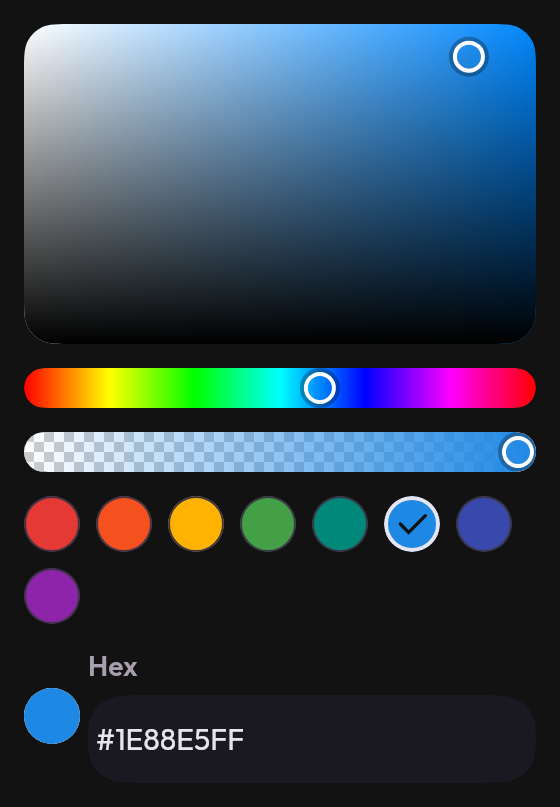
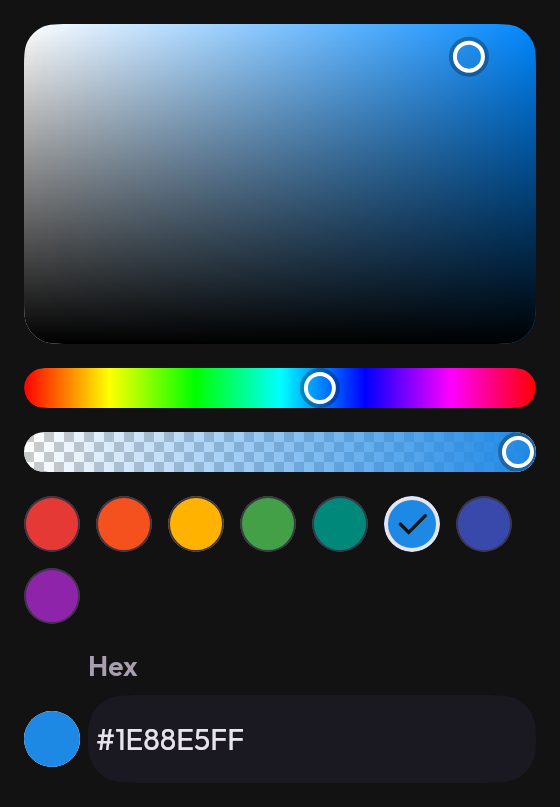
Three of the colour picker's four faults
**Palette mode drew no palette.** The mode guarded the spectrum square, the hue
track *and* the opacity track together with nothing in the `else`, so `Palette`
was the swatch row and the value field — and with `swatches = emptyList()` it
was a lone hex box with no way to choose a colour at all. The mode now chooses
the **area and nothing else**: a grid of forty cells stepping saturation across
and value down, with the hue track and the opacity track where they were. A
palette built from one hue is a column of greys, which is why dropping the track
with the square was never right.

Drawn on one canvas rather than composed as forty nodes, and a cell is picked by
rounding the position rather than by hit-testing, so a drag reports every cell it
crosses and the edges cannot have gaps. Eight by five against the area's 1.6
aspect makes every cell square.

**The hue track snapped to zero at its far end.** The display fraction was
`hue % 360`, and `Track` reports a clamped `0..1` — so the right edge emitted
360, the wrap sent it to 0 and the cursor teleported the width of the control
while the colour under it did not change. Red is both ends of the wheel, which
is why it looked like nothing and felt like a fault. Clamped now, not wrapped:
`Hsv` already says 360 and 0 are one colour and both are accepted, so the wrap
belongs to whoever converts and what is drawn is where the finger is.

**The value field did not line up with its swatch.** Every field here is a
[…]

Changed region(s): [[0.0304, 0.8364, 0.1518, 0.9603]]

diff --git a/ui/src/commonMain/kotlin/io/kontour/ui/components/selection/ColourPicker.kt b/ui/src/commonMain/kotlin/io/kontour/ui/components/selection/ColourPicker.kt
@@ -44,6 +44,7 @@ import io.kontour.ui.interaction.DragClaim
 import io.kontour.ui.interaction.freeDragOwning
 import io.kontour.ui.interaction.horizontalDragOwning
 import io.kontour.ui.theme.Theme
+import kotlin.math.roundToInt
 
 /**
  * How a colour is chosen.
@@ -54,10 +55,19 @@ import io.kontour.ui.theme.Theme
  * off-brand answer.
  */
 enum class ColourPickerMode {
-    /** A saturation-and-value area with a hue track under it. Any colour at all. */
+    /** A continuous saturation-and-value area. Any colour at all. */
     Spectrum,
 
-    /** The swatches and nothing else. A fixed set, chosen by eye. */
+    /**
+     * The same two axes as a grid of discrete squares.
+     *
+     * For picking *a* colour rather than an exact one — a label, a calendar, a
+     * highlighter. A grid answers faster because there is nothing to aim at: a
+     * cell is a target, and the forty of them are a set somebody can learn.
+     *
+     * Both modes keep the hue track, because a palette of one hue is a palette
+     * of greys and blues. What changes is the area above it.
+     */
     Palette,
 }
 
@@ -149,7 +159,14 @@ fun ColourPicker(
      */
     fun pick(picked: Color) {
         val next = picked.toHsv()
-        val hueless = next.saturation == 0f || next.value == 0f
+        // A threshold rather than `== 0f`, because exactly zero is the one case
+        // that did not need catching. A `Color` is eight bits a channel, so a
+        // colour one or two units off the grey axis still has a hue and it is a
+        // hue derived from almost nothing — at the spectrum's left and bottom
+        // edges that is several degrees per channel step, which is enough to
+        // swing the track visibly. Below one step of chroma there is no hue
+        // worth taking, so the picker keeps the one it is already holding.
+        val hueless = next.saturation <= ChannelStep || next.value <= ChannelStep
         emit(
             next = if (hueless) next.copy(hue = hsv.hue) else next,
             nextAlpha = picked.alpha,
@@ -169,12 +186,18 @@ fun ColourPicker(
             )
         }
 
-        if (mode == ColourPickerMode.Spectrum) {
-            SaturationValueArea(hsv, { emit(next = it) }, enabled)
-            HueTrack(hsv.hue, { emit(next = hsv.copy(hue = it)) }, enabled)
-            if (alphaSlider) {
-                AlphaTrack(alpha, hsv.toColour(), { emit(nextAlpha = it) }, enabled)
-            }
+        // The mode chooses the *area*, and nothing else. Both need a hue to
+        // work in — a palette built from one hue is a column of greys — and
+        // both take opacity if the caller asked for it. Palette used to drop
+        // all three, which left `swatches = emptyList()` rendering a lone hex
+        // box and no way at all to choose a colour.
+        when (mode) {
+            ColourPickerMode.Spectrum -> SaturationValueArea(hsv, { emit(next = it) }, enabled)
+            ColourPickerMode.Palette -> PaletteGrid(hsv, { emit(next = it) }, enabled)
+        }
+        HueTrack(hsv.hue, { emit(next = hsv.copy(hue = it)) }, enabled)
+        if (alphaSlider) {
+            AlphaTrack(alpha, hsv.toColour(), { emit(nextAlpha = it) }, enabled)
         }
 
         if (swatches.isNotEmpty()) {
@@ -308,12 +331,100 @@ private fun SaturationValueArea(hsv: Hsv, onHsvChange: (Hsv) -> Unit, enabled: B
     }
 }
 
+/**
+ * The same two axes as [SaturationValueArea], quantised into cells.
+ *
+ * Drawn rather than composed. Forty cells is forty layout nodes and forty draw
+ * calls for what is forty filled rectangles on one canvas, and the area beneath
+ * a finger has to keep up with the finger — the spectrum is one canvas for the
+ * same reason, and this is the same picture with the gradient stepped.
+ *
+ * A cell is chosen by rounding the position rather than by hit-testing, so a
+ * drag across the grid reports every cell it crosses and the edges cannot have
+ * gaps between them.
+ */
+@Composable
+private fun PaletteGrid(hsv: Hsv, onHsvChange: (Hsv) -> Unit, enabled: Boolean) {
+    val scope = rememberCoroutineScope()
+    var box by remember { mutableStateOf(Size.Zero) }
+    var at by remember { mutableStateOf(Offset.Zero) }
+    val strings = Theme.strings
+
+    fun report(position: Offset) {
+        if (box.width <= 0f || box.height <= 0f) return
+        at = position
+        val column = ((position.x / box.width) * PaletteColumns)
+            .toInt().coerceIn(0, PaletteColumns - 1)
+        val row = ((position.y / box.height) * PaletteRows)
+            .toInt().coerceIn(0, PaletteRows - 1)
+        onHsvChange(
+            hsv.copy(
+                saturation = (column + 1).toFloat() / PaletteColumns,
+                value = 1f - row.toFloat() / PaletteRows,
+            )
+        )
+    }
+
+    Canvas(
+        Modifier
+            .fillMaxWidth()
+            .aspectRatio(AreaAspect)
+            .clip(Theme.shapes.small)
+            .onSizeChanged { box = it.toSize() }
+            .freeDragOwning(
+                enabled = enabled,
+                interactionSource = null,
+                scope = scope,
+                claimsOn = DragClaim.Press,
+                onStart = ::report,
+                onDelta = { report(at + it) },
+                onEnd = {},
+            )
+            .semantics { contentDescription = strings.colourArea }
+    ) {
+        val cell = Size(size.width / PaletteColumns, size.height / PaletteRows)
+        for (row in 0 until PaletteRows) {
+            for (column in 0 until PaletteColumns) {
+                drawRect(
+                    color = Hsv(
+                        hue = hsv.hue,
+                        saturation = (column + 1).toFloat() / PaletteColumns,
+                        value = 1f - row.toFloat() / PaletteRows,
+                    ).toColour(),
+                    topLeft = Offset(column * cell.width, row * cell.height),
+                    size = cell,
+                )
+            }
+        }
+
+        // Marked in the middle of its cell, with the same ring the spectrum
+        // uses, so switching modes moves the picture and not the vocabulary.
+        val column = (hsv.saturation.coerceIn(0f, 1f) * PaletteColumns - 1f)
+            .roundToInt().coerceIn(0, PaletteColumns - 1)
+        val row = ((1f - hsv.value.coerceIn(0f, 1f)) * PaletteRows)
+            .toInt().coerceIn(0, PaletteRows - 1)
+        cursor(
+            Offset(
+                (column + 0.5f) * cell.width,
+                (row + 0.5f) * cell.height,
+            )
+        )
+    }
+}
+
 /** The whole wheel, left to right, with the current hue marked. */
 @Composable
 private fun HueTrack(hue: Float, onHueChange: (Float) -> Unit, enabled: Boolean) {
     val strings = Theme.strings
     Track(
-        fraction = (((hue % 360f) + 360f) % 360f) / 360f,
+        // Clamped, **not** wrapped. `Track` coerces its fraction to 0..1, so the
+        // right edge reports 1 and the hue comes back as 360 — and a wrap maps
+        // 360 to 0, which put the cursor at the far left while the colour under
+        // it was unchanged. Red at both ends is the whole reason the gradient
+        // has seven stops; `Hsv` says as much, that 360 and 0 are one colour and
+        // both are accepted. So the wrap belongs to whoever is converting, and
+        // what is drawn is simply where the finger is.
+        fraction = (hue.coerceIn(0f, 360f)) / 360f,
         onFractionChange = { onHueChange(it * 360f) },
         enabled = enabled,
         label = strings.colourHue,
@@ -497,5 +608,24 @@ private val TrackHeight: Dp = 20.dp
 private val CursorRadius: Dp = 7.dp
 private val CursorStroke: Dp = 2.dp
 private const val CursorShadowAlpha = 0.28f
+
+/**
+ * One eight-bit channel step, with room for the float that carried it.
+ *
+ * What "this colour has no hue worth keeping" means in a space that only has
+ * 256 values an axis. Below it the chroma is a rounding artefact and the hue
+ * derived from it is noise.
+ */
+private const val ChannelStep = 1f / 255f + 1e-5f
+
+/**
+ * Forty cells, and the shape of them is why.
+ *
+ * Eight by five against [AreaAspect]'s 1.6 makes every cell square, which is the
+ * one thing a grid of colours has to get right — a row of oblongs reads as a
+ * gradient that has been cut up rather than as a set of choices.
+ */
+private const val PaletteColumns = 8
+private const val PaletteRows = 5
 internal val ChequerSquare: Dp = 5.dp
 internal val ChequerGrey = Color(0xFFCCCCCC)

diff --git a/ui-catalog/src/jvmTest/kotlin/io/kontour/ui/catalog/ColourPickerTest.kt b/ui-catalog/src/jvmTest/kotlin/io/kontour/ui/catalog/ColourPickerTest.kt
@@ -12,6 +12,7 @@ import androidx.compose.ui.geometry.Offset
 import androidx.compose.ui.graphics.Color
 import androidx.compose.ui.unit.dp
 import io.kontour.ui.components.selection.ColourPicker
+import io.kontour.ui.components.selection.ColourPickerMode
 import io.kontour.ui.foundation.toHsv
 import kotlin.math.abs
 import kotlin.test.Test
@@ -38,6 +39,8 @@ class ColourPickerTest {
 
     private fun picker(
         start: Color,
+        valueField: Boolean = false,
+        mode: ColourPickerMode = ColourPickerMode.Spectrum,
         block: Scene.() -> Unit,
     ): List<Color> {
         val seen = mutableListOf<Color>()
@@ -48,8 +51,9 @@ class ColourPickerTest {
                     colour = colour,
                     onColourChange = { colour = it; seen += it },
                     modifier = Modifier.padding(16.dp).width(320.dp),
+                    mode = mode,
                     swatches = emptyList(),
-                    valueField = false,
+                    valueField = valueField,
                 )
             }
         }.use { scene ->
@@ -146,6 +150,76 @@ class ColourPickerTest {
                 "started at $hue. A picker that reads its hue back out of the " +
                 "colour loses it the moment the colour is black, and the whole " +
                 "of the area then belongs to red.",
+        )
+    }
+
+    /**
+     * The far end of the hue track is the far end, not the near one.
+     *
+     * The track's fraction used to be `hue % 360`, and `Track` reports a clamped
+     * `0..1` — so the right edge emitted 360, the wrap mapped it to 0 and the
+     * cursor teleported the width of the control while the colour under it did
+     * not change at all. Red is both ends of the wheel, which is why it looked
+     * like nothing and felt like a fault.
+     */
+    @Test
+    fun theHueTrackDoesNotJumpBackAtItsFarEnd() {
+        val start = Color(0xFF1E88E5)
+        // Below the area: 180dp of area at 1.6 aspect, then the track.
+        val trackY = (16 + 200 + 10) * 2f
+        val seen = picker(start) {
+            drag(
+                from = Offset(x = (16 + 160) * 2f, y = trackY),
+                to = Offset(x = (16 + 318) * 2f, y = trackY),
+                steps = 12,
+            )
+        }
+
+        assertTrue(seen.isNotEmpty(), "the drag along the hue track reported nothing")
+        val hue = seen.last().toHsv().hue
+        // Either end of the wheel is red, so the colour cannot tell the two
+        // apart — the fraction can. Anything that wrapped lands near zero.
+        assertTrue(
+            hue > 180f,
+            "dragging to the right-hand end of the hue track left the hue at " +
+                "$hue. The far end wrapped back to the near one, which is the " +
+                "cursor jumping the width of the track under a finger that has " +
+                "not moved.",
+        )
+    }
+
+    /**
+     * Palette mode is a palette, and it still has a hue.
+     *
+     * It used to be neither. The mode guarded the area, the hue track *and* the
+     * opacity track together, with nothing in the `else`, so `Palette` with no
+     * swatches rendered a lone hex box and there was no way to choose a colour
+     * at all. The grid replaces the area; everything under it stays.
+     */
+    @Test
+    fun thePaletteGridPicksAColourAndKeepsItsHueTrack() {
+        val start = Color(0xFF1E88E5)
+        val picked = picker(start, mode = ColourPickerMode.Palette) {
+            tap(areaCentre)
+        }
+        assertTrue(
+            picked.isNotEmpty(),
+            "tapping the middle of a palette reported no colour — the grid is " +
+                "not there, or it is not answering",
+        )
+
+        val trackY = (16 + 200 + 10) * 2f
+        val hues = picker(start, mode = ColourPickerMode.Palette) {
+            drag(
+                from = Offset(x = (16 + 160) * 2f, y = trackY),
+                to = Offset(x = (16 + 60) * 2f, y = trackY),
+                steps = 8,
+            )
+        }
+        assertTrue(
+            hues.isNotEmpty() && abs(hues.last().toHsv().hue - start.toHsv().hue) > 5f,
+            "the hue track under a palette did not move the hue — a palette of " +
+                "one hue is a column of greys, which is why both modes keep it",
         )
     }
 }

diff --git a/ui/src/commonMain/kotlin/io/kontour/ui/components/selection/ColourFields.kt b/ui/src/commonMain/kotlin/io/kontour/ui/components/selection/ColourFields.kt
@@ -5,6 +5,7 @@ import androidx.compose.foundation.layout.Box
 import androidx.compose.foundation.layout.Column
 import androidx.compose.foundation.layout.Row
 import androidx.compose.foundation.layout.RowScope
+import androidx.compose.foundation.layout.padding
 import androidx.compose.foundation.layout.size
 import androidx.compose.foundation.text.input.TextFieldState
 import androidx.compose.foundation.text.input.rememberTextFieldState
@@ -106,11 +107,25 @@ internal fun ColourFields(
             )
         }
 
+        // Bottom, not centre, and the swatch is then lifted to the box's middle.
+        //
+        // Every field here is a *column* — a label, a 6dp gap, then the input
+        // box — so centring the row centred a 28dp swatch against ~67dp of
+        // stack and left it sitting about 11dp above the box it is labelling.
+        // It got worse with the type scale, because the label grows and the box
+        // does not. Bottom-aligning lines the boxes up with each other, and the
+        // padding below puts the swatch's middle exactly on the box's middle,
+        // derived from the two sizes rather than guessed.
         Row(
             horizontalArrangement = Arrangement.spacedBy(Theme.spacing.xxs),
-            verticalAlignment = Alignment.CenterVertically,
+            verticalAlignment = Alignment.Bottom,
         ) {
-            Preview(colour)
+            Preview(
+                colour = colour,
+                modifier = Modifier.padding(
+                    bottom = (Theme.sizing.controlHeightMedium - PreviewSize) / 2,
+                ),
+            )
             when (format) {
                 ColourFormat.Hex -> HexField(colour, onColourChange, enabled, withAlpha)
                 ColourFormat.Rgb -> RgbFields(colour, onColourChange, enabled)
@@ -136,9 +151,9 @@ internal fun ColourFields(
  * transparent and one fading to the surface behind it are the same picture.
  */
 @Composable
-private fun Preview(colour: Color) {
+private fun Preview(colour: Color, modifier: Modifier = Modifier) {
     Box(
-        Modifier
+        modifier
             .size(PreviewSize)
             .clip(Theme.shapes.small)
             .drawBehind {

diff --git a/ui-docs/content/components/colour-picker.md b/ui-docs/content/components/colour-picker.md
@@ -42,6 +42,14 @@ colour", so an app that means the first should not offer the second — a brand
 picker with a full spectrum in it invites an off-brand answer. Pass
 `onModeChange` only when both are genuinely allowed.
 
+**The mode chooses the area and nothing else.** `Spectrum` gives the continuous
+saturation-and-value square; `Palette` gives the same two axes as a grid of
+forty discrete cells, which is faster to answer because a cell is a target and
+there is nothing to aim at. Both keep the hue track underneath, and both take
+the opacity track if `alphaSlider` is on — a palette built from a single hue is
+a column of greys, so dropping the hue with the square would not leave a palette
+at all.
+
 ---
 
 ## It keeps a hue, not a colour
